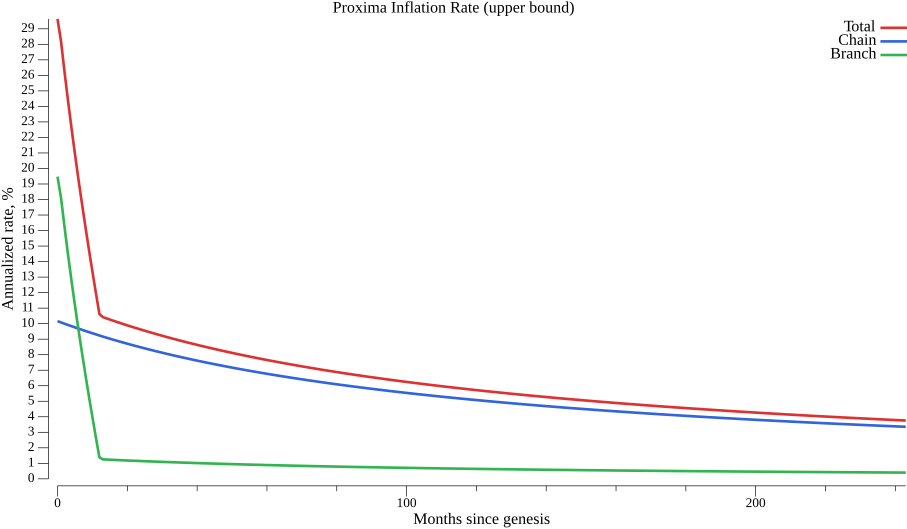
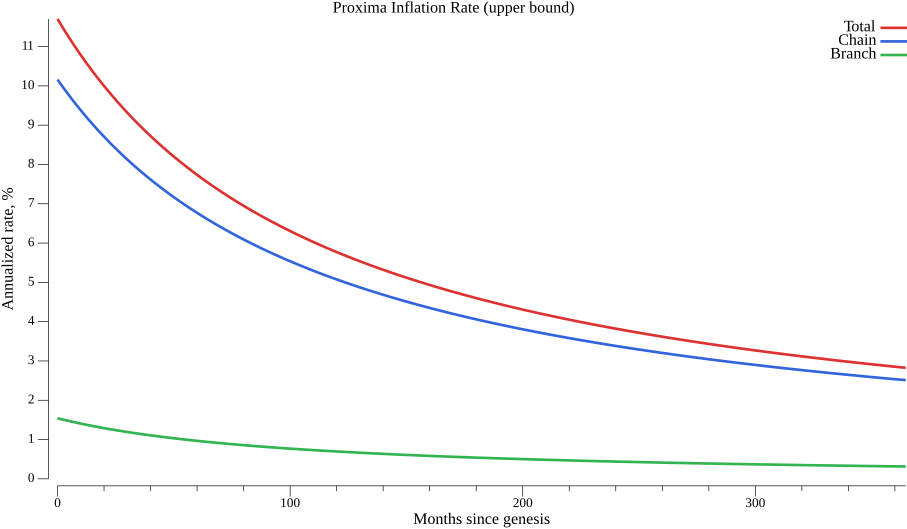
ledger: flat branch inflation bonus base from genesis
branchInflationBonusBase declined from 65M at genesis to a 5M tail over the first year
(a bootstrap-period subsidy). Make it the flat tail constant
(constBranchInflationBonusBaseTail = 5M) since slot 0 via evalArg1($0, ...), which keeps
the 1-arg slot signature while ignoring the slot. Removes the dead schedule helpers
constSlotsPerMonth, constBranchInflationBonusBaseGenesisSlopeMonths and
branchInflationBonusBaseSchedule. Breaking ledger change.

Tooling: proxi util inflation_emulation now splits the per-year summary into
ChainRate + BranchRate = TotalRate and defaults to a 30-year horizon. Regenerate
inflation_rates.png (30 years; branch APR is flat, no genesis spike). Update
claude/inflation.md.

diff --git a/proxi/util_cmd/inflation_emulation.go b/proxi/util_cmd/inflation_emulation.go
@@ -20,7 +20,7 @@ import (
 
 func initInflationEmulationCmd() *cobra.Command {
 	cmd := &cobra.Command{
-		Use:   "inflation_emulation [<n slots, default 10000000>] [<step days, default 10>]",
+		Use:   "inflation_emulation [<n slots, default 30 years>] [<step days, default 10>]",
 		Args:  cobra.RangeArgs(0, 2),
 		Short: "inflation emulation: upper-bound projection of chain and branch inflation over time",
 		Run:   runInflationEmulationCmd,
@@ -49,7 +49,11 @@ func runInflationEmulationCmd(cmd *cobra.Command, args []string) {
 	)
 	lib := ledger.L(base.MaxSlot)
 
-	nSlots := uint32(10_000_000)
+	slotsPerDay := lib.SlotsPerDay()
+	slotsPerYear := lib.SlotsPerYear()
+
+	// default horizon: 30 years
+	nSlots := uint32(30 * slotsPerYear)
 	stepDays := 10
 	if len(args) > 0 {
 		n, err := strconv.Atoi(args[0])
@@ -64,8 +68,6 @@ func runInflationEmulationCmd(cmd *cobra.Command, args []string) {
 		stepDays = d
 	}
 
-	slotsPerDay := lib.SlotsPerDay()
-	slotsPerYear := lib.SlotsPerYear()
 	step := uint32(slotsPerDay * stepDays)
 
 	data := computeInflationData(lib, nSlots, step)
@@ -106,18 +108,19 @@ func runInflationEmulationCmd(cmd *cobra.Command, args []string) {
 	elapsed := lib.SlotDuration() * time.Duration(nSlots)
 	fmt.Printf("  Elapsed time:      %v (%.2f days)\n", elapsed, elapsed.Hours()/24)
 
-	// per-year actual inflation summary
+	// per-year actual inflation summary, total rate split into chain + branch
 	slotsPerYearU := uint32(slotsPerYear)
 	fmt.Println()
-	fmt.Println("Actual inflation per year:")
-	fmt.Printf("  %-6s  %20s  %20s  %20s  %10s\n", "Year", "SupplyStart", "SupplyEnd", "Inflated", "Rate")
-	fmt.Printf("  %s\n", "------------------------------------------------------------------------------------")
+	fmt.Println("Actual inflation per year (total rate = chain rate + branch rate):")
+	fmt.Printf("  %-6s  %20s  %20s  %20s  %11s  %11s  %11s\n",
+		"Year", "SupplyStart", "SupplyEnd", "Inflated", "ChainRate", "BranchRate", "TotalRate")
+	fmt.Printf("  %s\n", "----------------------------------------------------------------------------------------------------------------------------")
 
-	findBySlot := func(targetSlot uint32) *slotInflationData {
-		best := &data[0]
+	findIdxBySlot := func(targetSlot uint32) int {
+		best := 0
 		for i := range data {
 			if data[i].Slot <= targetSlot {
-				best = &data[i]
+				best = i
 			} else {
 				break
 			}
@@ -134,23 +137,39 @@ func runInflationEmulationCmd(cmd *cobra.Command, args []string) {
 		if yearEndSlot >= nSlots {
 			yearEndSlot = nSlots - 1
 		}
-		dStart := findBySlot(yearStartSlot)
-		dEnd := findBySlot(yearEndSlot)
+		idxStart := findIdxBySlot(yearStartSlot)
+		idxEnd := findIdxBySlot(yearEndSlot)
+		dStart := &data[idxStart]
+		dEnd := &data[idxEnd]
 
 		supplyStart := dStart.ProformaSupply
 		supplyEnd := dEnd.ProformaSupply + dEnd.TotalInflation
-		inflated := supplyEnd - supplyStart
-		rate := float64(inflated) / float64(supplyStart) * 100.0
+
+		// chain and branch inflation summed over the year's steps. Because the proforma
+		// supply compounds step-by-step (ProformaSupply[i+1] = ProformaSupply[i] +
+		// TotalInflation[i]), the sum equals supplyEnd - supplyStart exactly, so the two
+		// component rates add up to the total rate.
+		var chainInflated, branchInflated uint64
+		for i := idxStart; i <= idxEnd; i++ {
+			chainInflated += data[i].ChainInflation
+			branchInflated += data[i].BranchInflation
+		}
+		inflated := chainInflated + branchInflated
+
+		chainRate := float64(chainInflated) / float64(supplyStart) * 100.0
+		branchRate := float64(branchInflated) / float64(supplyStart) * 100.0
+		totalRate := float64(inflated) / float64(supplyStart) * 100.0
+
 		full := ""
 		if yearEndSlot < yearStartSlot+slotsPerYearU-1 {
 			full = " (partial)"
 		}
-		fmt.Printf("  %-6d  %20s  %20s  %20s  %9.2f%%%s\n",
+		fmt.Printf("  %-6d  %20s  %20s  %20s  %10.2f%%  %10.2f%%  %10.2f%%%s\n",
 			year,
 			util.Th(supplyStart),
 			util.Th(supplyEnd),
 			util.Th(inflated),
-			rate, full)
+			chainRate, branchRate, totalRate, full)
 	}
 
 	generateChart, _ := cmd.Flags().GetBool("chart")

diff --git a/claude/inflation.md b/claude/inflation.md
@@ -18,30 +18,27 @@ relative to M0. The decline is gradual: ~9.2% at year 1, ~8.5% at year 2, ~7.7% 
 
 ### Branch Inflation Bonus
 VRF-based pseudo-random bonus awarded to sequencers that produce branch transactions.
-The upper bound (`branchInflationBonusBase`) follows a schedule:
+The upper bound (`branchInflationBonusBase`) is a **flat constant from genesis**:
+`constBranchInflationBonusBaseTail = 5,000,000` per slot. There is no bootstrap period.
+Its APR starts at ~1.5% and declines purely as the supply grows (~0.3% after 30 years).
 
-| Period | Bonus per slot | APR (approx) |
-|--------|---------------|--------------|
-| Bootstrap grace (slots 0-8503, ~1 day) | 5,000,000 | ~1.5% |
-| Month 0 (after bootstrap) | 65,000,000 (= 5M * 13) | ~19% |
-| Month 1 | 60,000,000 (= 5M * 12) | ~18% |
-| ... | decreases by 5M/month | ... |
-| Month 11 | 10,000,000 (= 5M * 2) | ~3% |
-| Month 12+ (tail, permanent) | 5,000,000 | ~1.2% |
-
-The monthly boundaries use `constSlotsPerMonth = 255,118` (not exactly 30 days of 8,437 slots).
+The earlier declining schedule — 65,000,000 (5M×13) at genesis, decreasing 5M/month down to
+the 5M tail over the first year — was removed (breaking ledger change, 2026-06-14). The
+helper constants `constSlotsPerMonth` and `constBranchInflationBonusBaseGenesisSlopeMonths`
+and the function `branchInflationBonusBaseSchedule` were deleted with it.
 
 ### Combined Rate
 
-| Period | Chain APR | Branch APR | Total APR |
-|--------|-----------|------------|-----------|
-| Year 0 (effective) | ~10% | ~19% → 1.2% | ~30% → 11% |
-| Year 1 | ~9.2% | ~1.2% | ~10.4% |
-| Year 2 | ~8.4% | ~1.1% | ~9.5% |
-| Year 3+ | slowly declining | ~1% | slowly declining |
+Flat branch base → no genesis spike; total inflation starts ~11.9% and declines
+monotonically as supply grows (upper-bound projection):
 
-Actual year 0 total inflation: ~22.5% (weighted average of the declining branch bonus).
-After year 1, total inflation settles around 10% and slowly declines.
+| Year | Chain APR | Branch APR | Total APR |
+|------|-----------|------------|-----------|
+| 0  | ~10.4% | ~1.6% | ~11.9% |
+| 5  | ~6.9%  | ~1.0% | ~7.9%  |
+| 10 | ~5.1%  | ~0.7% | ~5.8%  |
+| 20 | ~3.4%  | ~0.4% | ~3.9%  |
+| 29 | ~2.6%  | ~0.3% | ~2.9%  |
 
 ## Key Mathematical Property
 
@@ -77,9 +74,9 @@ The total inflation for the segment is:
 - Chain inflation: `N * A / (M0 + s)` (exact, via EasyFL)
 - Branch inflation: `B * (M0+s+S) * ln((M0+s+S)/(M0+s))` (closed-form, accounts for chain compounding of branch bonuses)
 
-When the branch bonus changes within a step (at bootstrap boundary slot 8504, or at monthly
-boundaries every 255,118 slots), the step is split into sub-segments with constant bonus.
-Each sub-segment is processed sequentially, carrying over the updated supply.
+The branch bonus base is now constant for all slots, so a step never straddles a bonus
+change; `computeStepInfl` still splits at bonus-change boundaries generically, but
+`findNextBonusChangeSlot` returns the step end immediately (single segment per step).
 
 Verified: step=1 vs step=30 days over 60 days gives relative error of 0.00000006%
 (640K tokens out of 10^15, pure integer rounding).
@@ -92,10 +89,8 @@ All inflation formulas are defined in `ledger/def/inflation.easyfl`:
 - `minimumInflatableAmount0`: `InitialSupply / constSlotInflationBase` = 30,303,030
 - `chainInflationOneSlot(amount, slot)`: `amount / (M0 + slot)`
 - `chainInflationMultiStep(amount, slot, nSlots)`: `nSlots * chainInflationOneSlot(amount, slot)`
-- `branchInflationBonusBase(slot)`: upper bound of branch bonus at given slot
-- `constSlotsPerMonth`: 255,118
+- `branchInflationBonusBase(slot)`: upper bound of branch bonus — flat `constBranchInflationBonusBaseTail` for all slots (`evalArg1($0, ...)` ignores the slot)
 - `constBranchInflationBonusBaseTail`: 5,000,000
-- `constBranchInflationBonusBaseGenesisSlopeMonths`: 12
 
 Go wrappers in `ledger/inflation_fun.go`:
 - `lib.ChainInflationMultiStep(amount, inSlot, forSlots)` — evaluates EasyFL, returns uint64
@@ -129,7 +124,7 @@ proxi util inflation_emulation [<n_slots>] [<step_days>]
 ```
 
 Parameters:
-- `n_slots`: number of slots to simulate (default: 10,000,000 = ~3.25 years)
+- `n_slots`: number of slots to simulate (default: 30 years = `30 * SlotsPerYear` ≈ 92,385,150 slots)
 - `step_days`: computation step in days (default: 10)
 
 Flags:
@@ -138,21 +133,23 @@ Flags:
 Output:
 - Per-step table with Year, Month, Slot, BranchInflation, ChainInflation, TotalInflation, ProformaSupply, and annualized rates
 - Summary: final supply, total inflated, percentage increase, elapsed time
-- Per-year actual inflation rates
+- Per-year actual inflation table: SupplyStart, SupplyEnd, Inflated, and the total rate split
+  into **ChainRate + BranchRate = TotalRate** (the two components sum exactly to the total,
+  since per-year chain+branch inflation equals supplyEnd − supplyStart)
 
 Examples:
 ```bash
-# Default: 10M slots, 10-day step
+# Default: 30 years, 10-day step
 proxi util inflation_emulation
 
-# 5 years with 30-day step (fast, ~40 data points)
-proxi util inflation_emulation 15000000 30
+# 5 years with 30-day step (fast, ~60 data points)
+proxi util inflation_emulation 15397525 30
 
 # First year only, 1-day step (detailed, ~365 data points)
 proxi util inflation_emulation 3079505 1
 
-# Generate PNG chart
-proxi util inflation_emulation 10000000 10 --chart
+# Generate PNG chart (30 years)
+proxi util inflation_emulation --chart
 ```
 
 The emulation assumes the entire supply is inflated each slot (upper bound projection).
